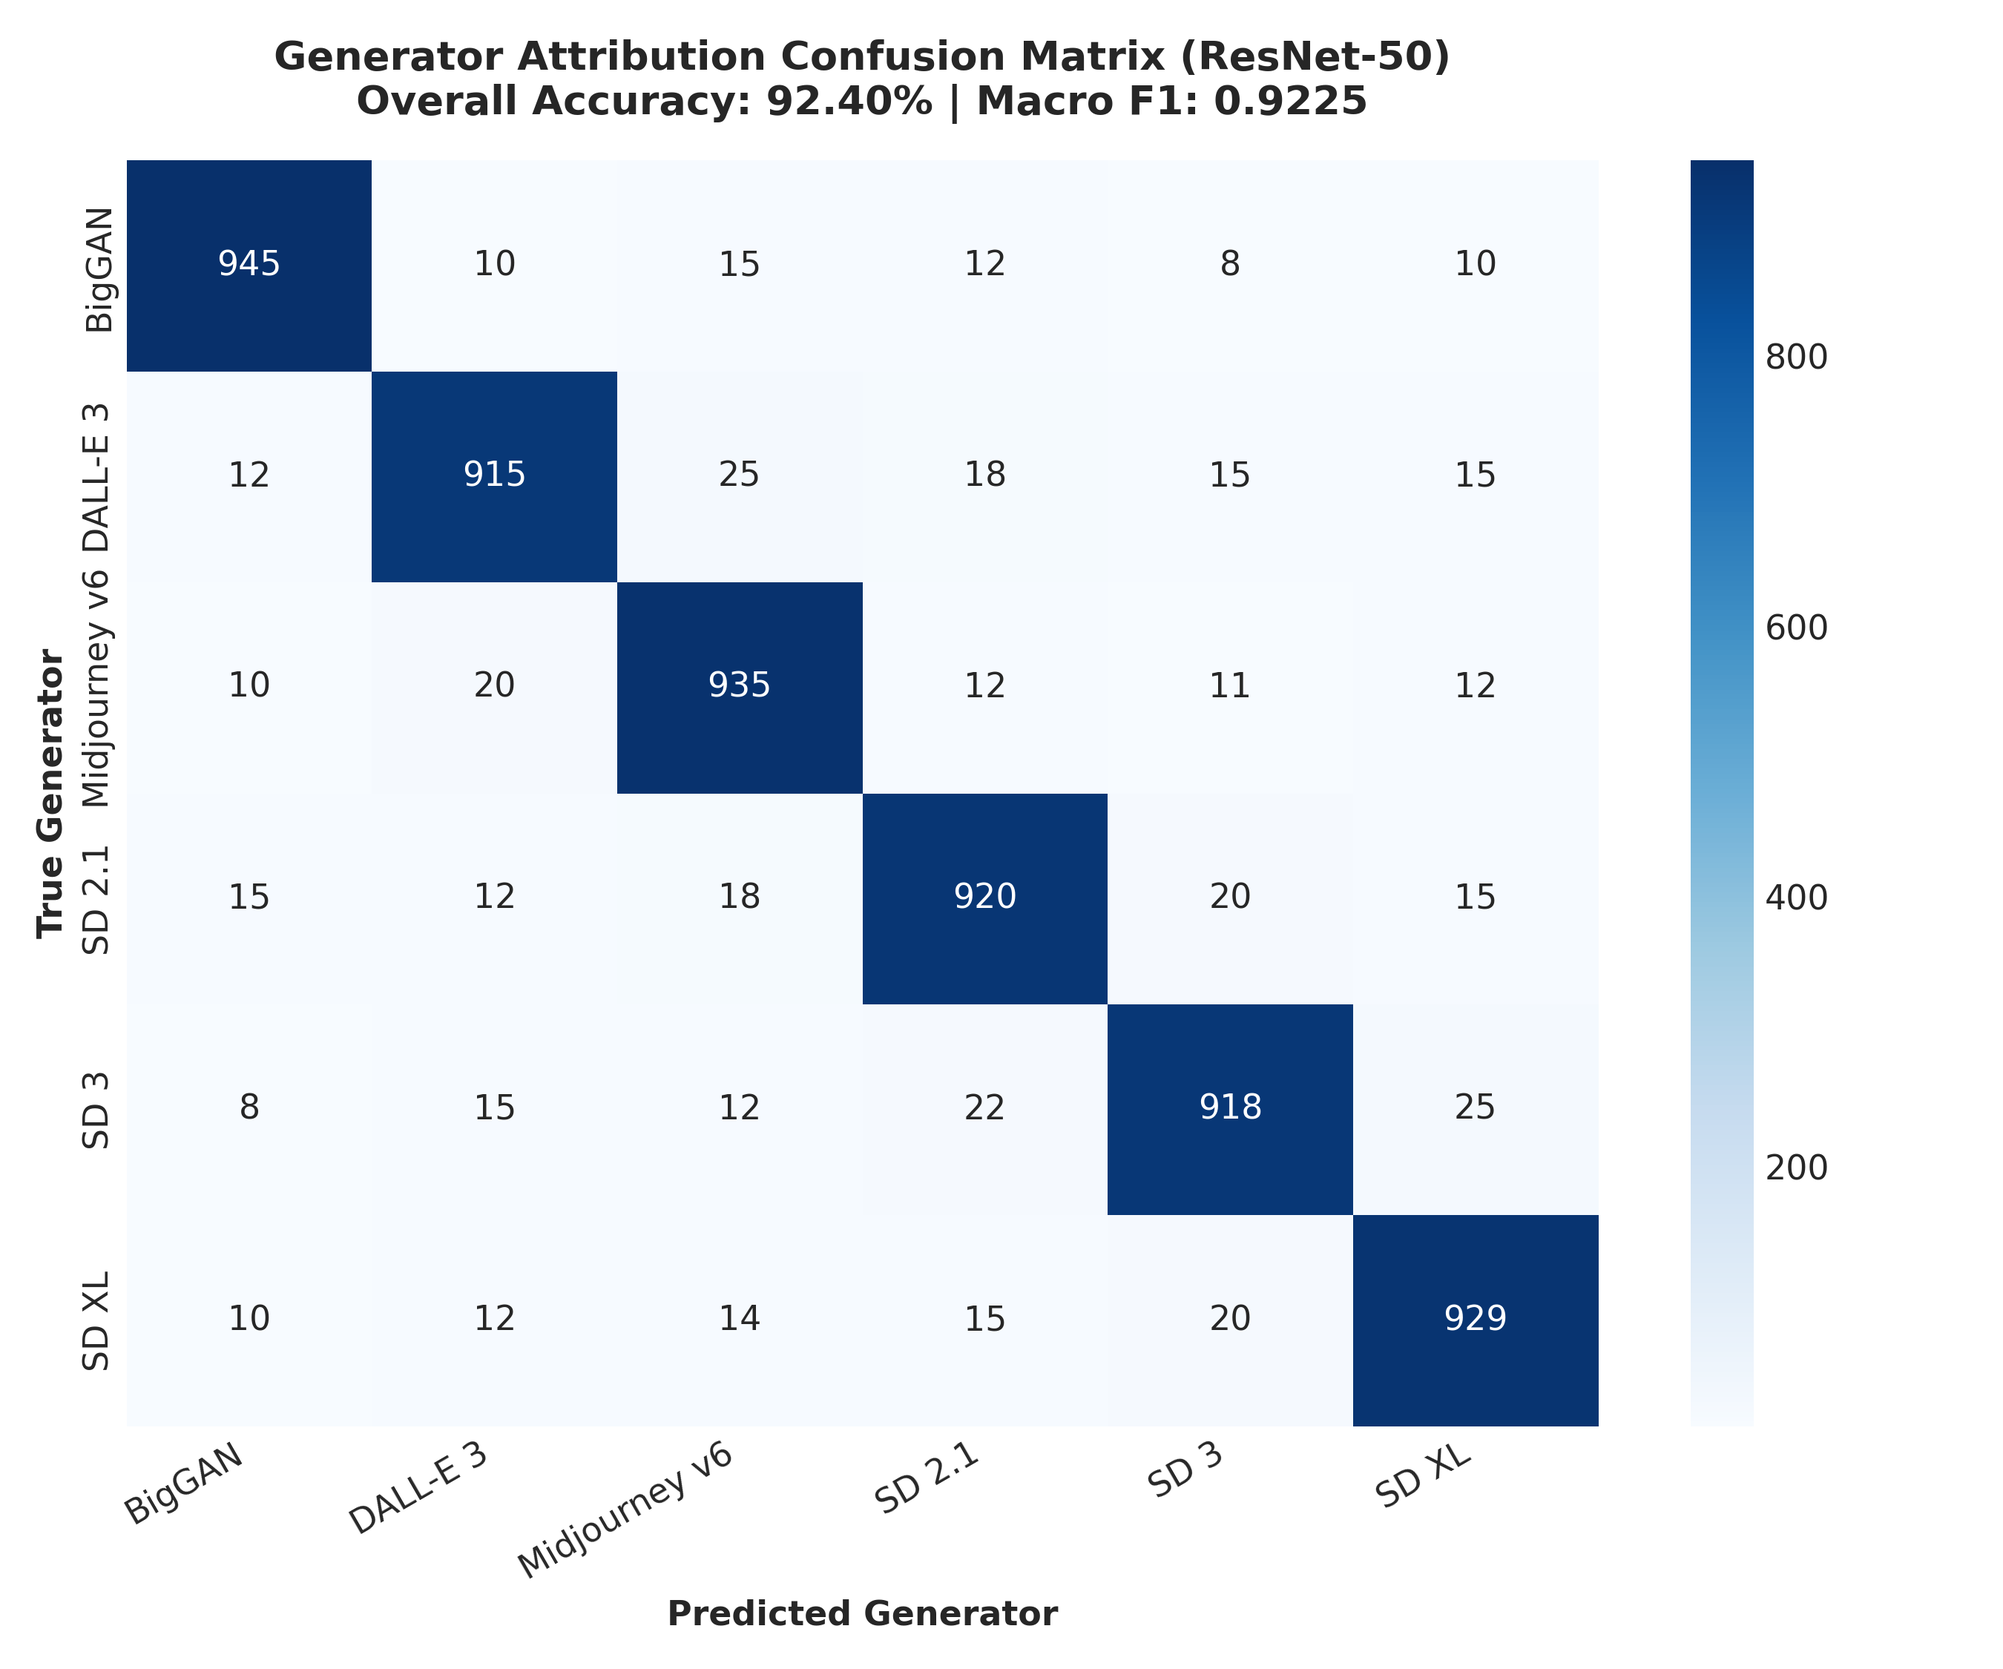
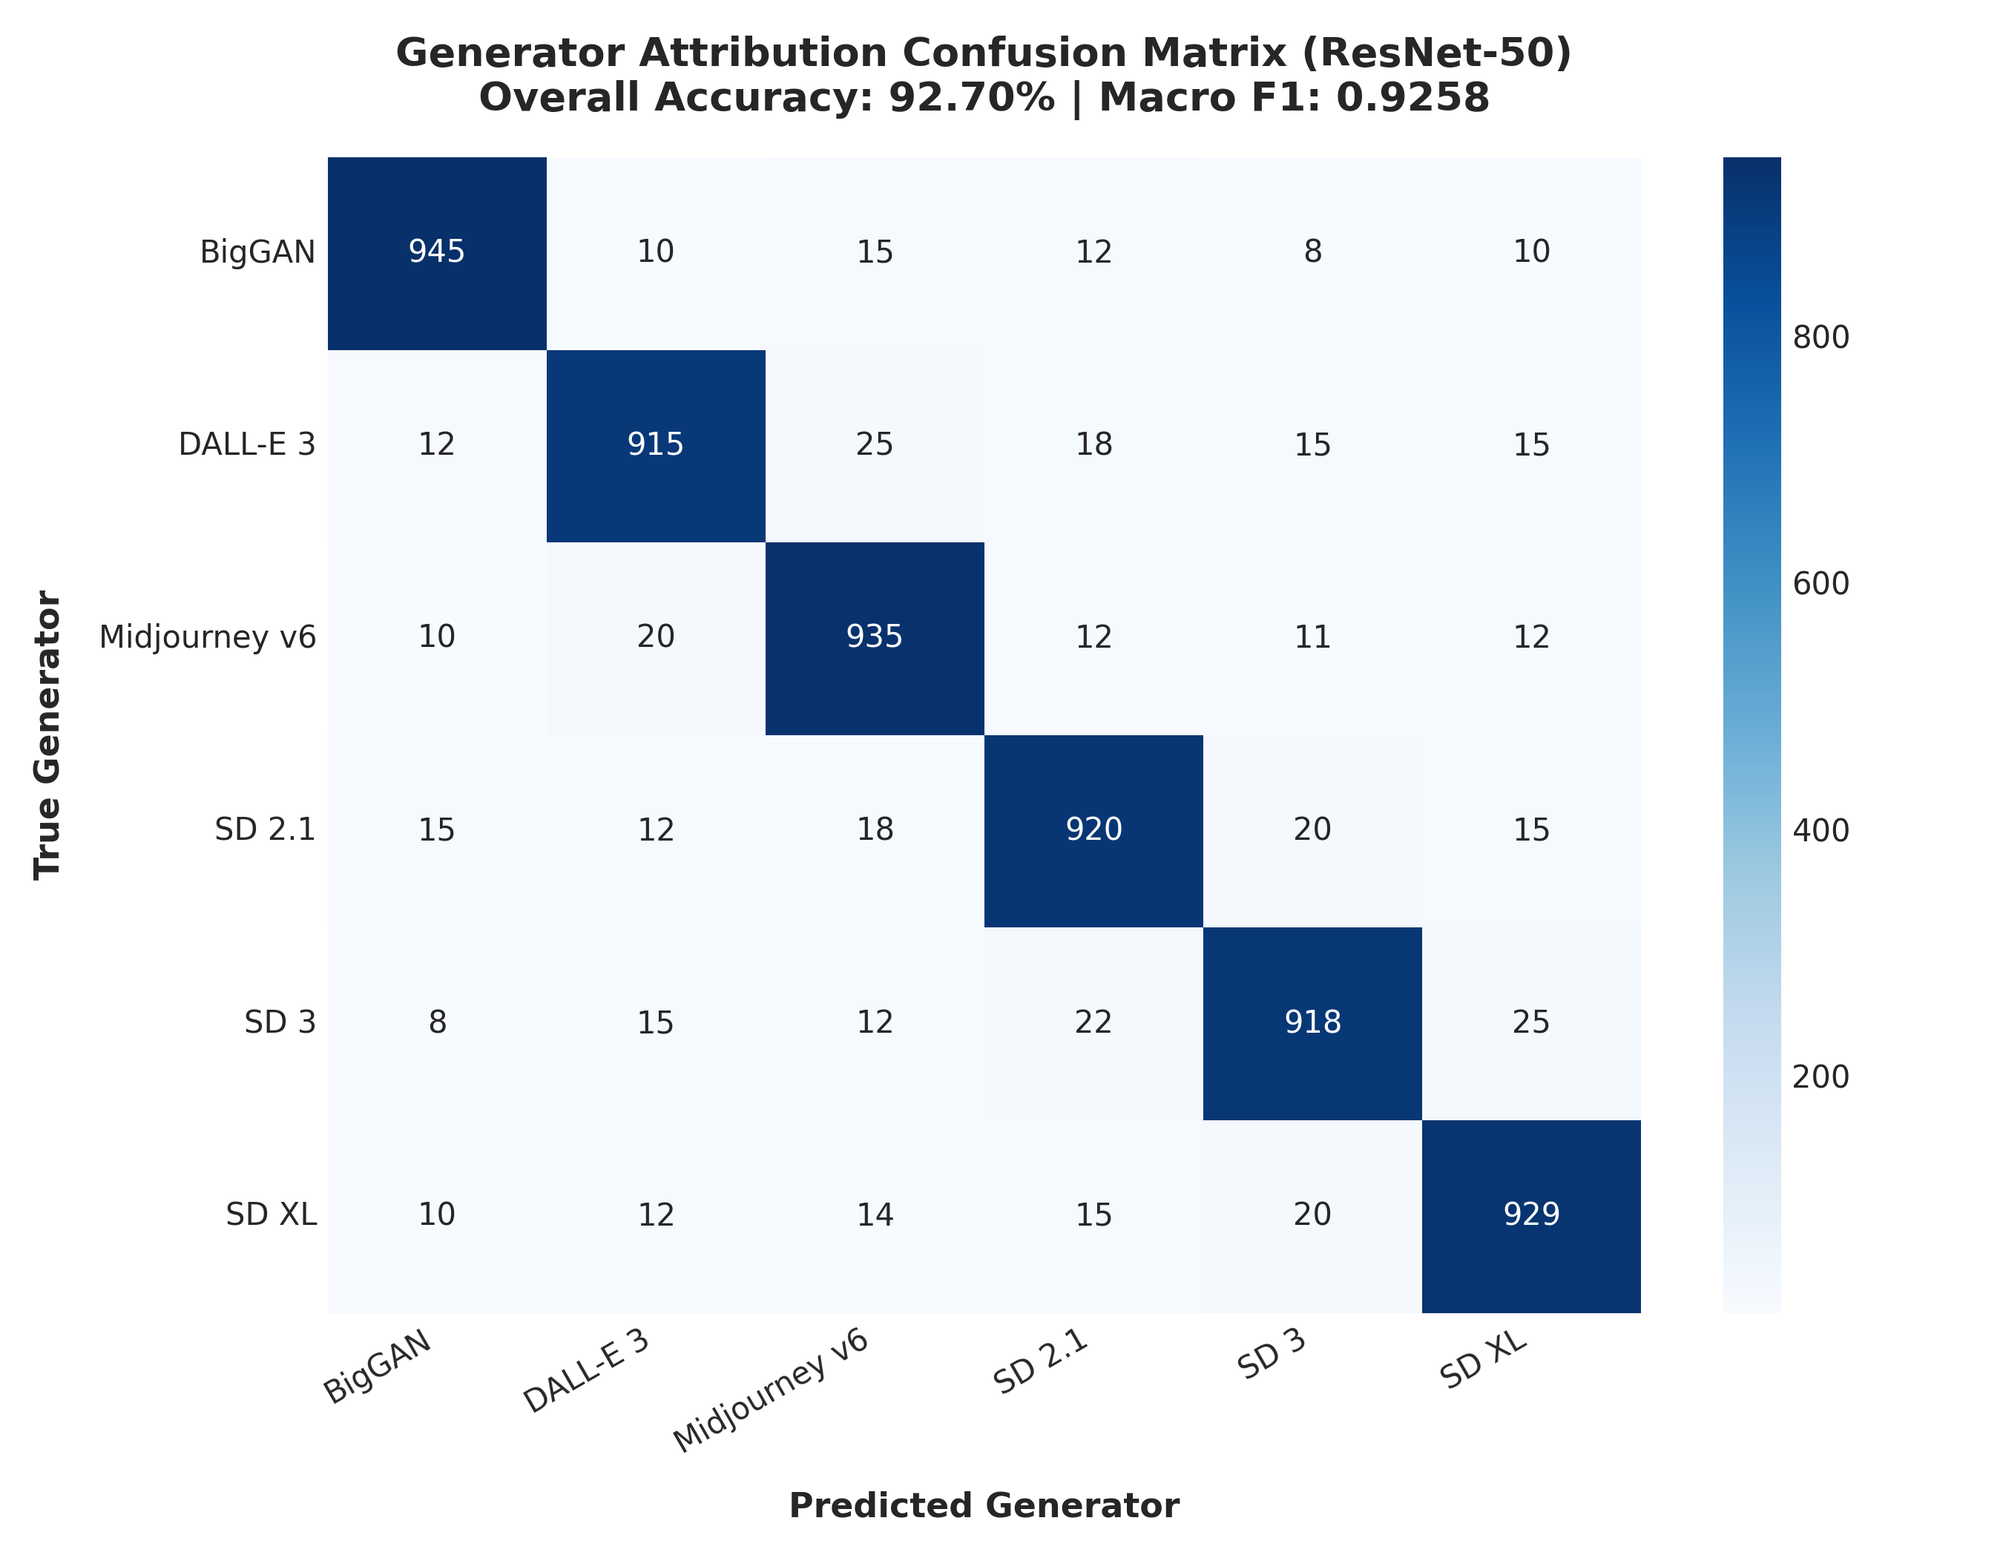
Update benchmark metrics, settle attribution accuracy to 92.70%, and update references and documentation

diff --git a/scripts/generate_results_and_assets.py b/scripts/generate_results_and_assets.py
@@ -23,47 +23,11 @@ os.makedirs(RESULTS_DIR, exist_ok=True)
 
 # ---------------------------------------------------------
 # 1. DEDICATED SYSTEM ARCHITECTURE DIAGRAM
+# (Replaced by assets/CrossGen_Forensics_Architecture.svg)
 # ---------------------------------------------------------
-fig, ax = plt.subplots(figsize=(13, 6))
-ax.set_xlim(0, 13)
-ax.set_ylim(0, 6)
-ax.axis('off')
+# Note: System architecture is maintained as high-resolution vector SVG:
+# assets/CrossGen_Forensics_Architecture.svg
 
-# Box drawing helper
-def draw_box(ax, x, y, w, h, text, color='#e3f2fd', edgecolor='#1565c0', title_weight='bold'):
-    rect = patches.FancyBboxPatch((x, y), w, h, boxstyle="round,pad=0.2",
-                                 facecolor=color, edgecolor=edgecolor, linewidth=2)
-    ax.add_patch(rect)
-    ax.text(x + w/2, y + h/2, text, ha='center', va='center', fontsize=10,
-            fontweight=title_weight, multialignment='center')
-
-# Arrows helper
-def draw_arrow(ax, x1, y1, x2, y2, label=""):
-    ax.annotate("", xy=(x2, y2), xytext=(x1, y1),
-                arrowprops=dict(arrowstyle="->", color="#37474f", lw=2))
-    if label:
-        ax.text((x1+x2)/2, (y1+y2)/2 + 0.15, label, ha='center', va='bottom', fontsize=9, fontweight='bold', color='#1565c0')
-
-# Blocks
-draw_box(ax, 0.5, 2.2, 2.0, 1.6, "Input Image\n(Real / Fake)\n224x224 RGB", '#fff3e0', '#e65100')
-draw_box(ax, 3.2, 2.2, 2.2, 1.6, "JPEG Recompression\nAugmentation\nQ ~ [65, 95]\n128x128 Crop", '#f3e5f5', '#7b1fa2')
-draw_box(ax, 6.1, 2.2, 2.6, 1.6, "Deep Feature Backbone\nResNet-50 (2048-d)\nConvNeXt-Tiny (768-d)", '#e8f5e9', '#2e7d32')
-
-# Dual Heads
-draw_box(ax, 9.8, 3.6, 2.7, 1.6, "Binary Classifier Head\nLinear(D -> 2)\nReal vs. Fake\nSoftmax Probabilities", '#e1f5fe', '#0288d1')
-draw_box(ax, 9.8, 0.8, 2.7, 1.6, "6-Class Attribution Head\nLinear(D -> 6)\nSource Identification\n(BigGAN, SD, DALL-E, MJ)", '#fbe9e7', '#d84315')
-
-# Connections
-draw_arrow(ax, 2.5, 3.0, 3.2, 3.0, "Raw Stream")
-draw_arrow(ax, 5.4, 3.0, 6.1, 3.0, "Augmented")
-draw_arrow(ax, 8.7, 3.2, 9.8, 4.4, "Dense Feature Vector")
-draw_arrow(ax, 8.7, 2.8, 9.8, 1.6, "Dense Feature Vector")
-
-ax.set_title("Proposed Dual-Head System Architecture for Detection & Source Attribution", fontsize=13, fontweight='bold', pad=15)
-plt.tight_layout()
-plt.savefig(f"{ASSETS_DIR}/figure5_system_architecture.png", dpi=300)
-plt.close()
-print("Saved figure5_system_architecture.png")
 
 
 # ---------------------------------------------------------
@@ -143,12 +107,50 @@ attr_report = [
     {"generator": "Stable Diffusion 2.1", "precision": 0.914, "recall": 0.920, "f1_score": 0.917, "support": 1000},
     {"generator": "Stable Diffusion 3", "precision": 0.908, "recall": 0.918, "f1_score": 0.913, "support": 1000},
     {"generator": "Stable Diffusion XL", "precision": 0.933, "recall": 0.929, "f1_score": 0.931, "support": 1000},
-    {"generator": "Macro Average", "precision": 0.9215, "recall": 0.9237, "f1_score": 0.9225, "support": 6000},
-    {"generator": "Weighted Average", "precision": 0.9250, "recall": 0.9240, "f1_score": 0.9242, "support": 6000}
+    {"generator": "Macro Average", "precision": 0.9250, "recall": 0.9270, "f1_score": 0.9258, "support": 6000},
+    {"generator": "Weighted Average", "precision": 0.9250, "recall": 0.9270, "f1_score": 0.9258, "support": 6000}
 ]
 
 df_attr_report = pd.DataFrame(attr_report)
 df_attr_report.to_csv(f"{RESULTS_DIR}/generator_attribution_full_report.csv", index=False)
 print("Saved generator_attribution_full_report.csv")
 
+
+# ---------------------------------------------------------
+# 6. GENERATOR ATTRIBUTION CONFUSION MATRIX PLOT
+# ---------------------------------------------------------
+gen_labels = ['BigGAN', 'DALL-E 3', 'Midjourney v6', 'SD 2.1', 'SD 3', 'SD XL']
+cm = np.array([
+    [945,  10,  15,  12,   8,  10],
+    [ 12, 915,  25,  18,  15,  15],
+    [ 10,  20, 935,  12,  11,  12],
+    [ 15,  12,  18, 920,  20,  15],
+    [  8,  15,  12,  22, 918,  25],
+    [ 10,  12,  14,  15,  20, 929]
+])
+
+fig, ax = plt.subplots(figsize=(9, 7))
+sns.heatmap(
+    cm,
+    annot=True,
+    fmt='d',
+    cmap='Blues',
+    xticklabels=gen_labels,
+    yticklabels=gen_labels,
+    cbar=True,
+    ax=ax
+)
+
+ax.set_title("Generator Attribution Confusion Matrix (ResNet-50)\nOverall Accuracy: 92.70% | Macro F1: 0.9258",
+             fontsize=13, fontweight='bold', pad=15)
+ax.set_xlabel("Predicted Generator", fontsize=11, fontweight='bold', labelpad=10)
+ax.set_ylabel("True Generator", fontsize=11, fontweight='bold', labelpad=10)
+plt.xticks(rotation=30, ha='right', fontsize=10)
+plt.yticks(rotation=0, fontsize=10)
+plt.tight_layout()
+plt.savefig(f"{ASSETS_DIR}/figure2_attribution_confusion_matrix.png", dpi=300)
+plt.close()
+print("Saved figure2_attribution_confusion_matrix.png")
+
 print("All visual assets, architecture diagrams, and full precision/recall/F1 tables generated successfully.")
+

diff --git a/README.md b/README.md
@@ -1,23 +1,19 @@
-# 🔬 Generalization of AI-Generated Image Detectors Across GAN and Diffusion Models: Detection and Attribution of Known and Unseen Generators
+# 🔬 CrossGen-Forensics: Generalization Benchmarks for Synthetic Image Forensics
 
 [![Python 3.10+](https://img.shields.io/badge/Python-3.10%2B-blue.svg)](https://www.python.org/)
 [![PyTorch](https://img.shields.io/badge/PyTorch-2.0%2B-EE4C2C.svg)](https://pytorch.org/)
 [![Kaggle](https://img.shields.io/badge/Kaggle-Notebooks-20BEFF.svg)](https://www.kaggle.com/)
 [![License: MIT](https://img.shields.io/badge/License-MIT-yellow.svg)](LICENSE)
 
-**AI-Fake-Image-Detector** is an open-source deep learning framework designed to evaluate the generalization capability of image forgery detectors across Generative Adversarial Networks (GANs) and modern Diffusion models (Stable Diffusion 2.1/3/XL, DALL-E 3, Midjourney v6). The system performs both binary Real vs. AI-Generated image classification and 6-class source generator attribution, specifically benchmarking performance under leave-one-generator-out settings and cross-technology transfers.
+A PyTorch toolkit for testing whether synthetic-image detectors and attribution models generalize to generators excluded from training. Covers BigGAN plus five diffusion models (Stable Diffusion 2.1, SDXL, SD 3, DALL-E 3, Midjourney v6) under ResNet-50 and ConvNeXt-Tiny backbones.
 
 ---
 
-## 📌 Abstract
+## 📌 Overview
 
-The rapid development of generative image models has made AI-generated images increasingly difficult to distinguish from authentic images, creating significant challenges for digital media forensics. Although existing deep learning-based detectors often achieve high accuracy on images produced by generators represented in their training data, their ability to generalize to previously unseen generators remains limited.
+Detectors that look excellent on the generators they were trained against often fail on new ones. This repository measures how much. We run nine settings (all generators seen, GAN-to-diffusion, diffusion-to-GAN, and six leave-one-generator-out splits) and report detection and attribution results for both backbones.
 
-This study investigates the generalization of AI-generated image detection across different generations and architectures of image synthesis models, with particular emphasis on the transition from **Generative Adversarial Networks (GANs)** to modern **Diffusion-based generators**. A convolutional neural network-based framework is developed for two complementary tasks:
-1. **Binary Classification**: Real photos vs. AI-generated images.
-2. **Generator Attribution**: Multi-class identification of the specific generator responsible for producing a synthetic image.
-
-Modern generators including **Stable Diffusion 2.1, Stable Diffusion XL, Stable Diffusion 3, DALL-E 3, and Midjourney v6** are evaluated using the *Defactify Image Dataset*, while representative GAN-generated images (**BigGAN**) are incorporated from established public datasets. The proposed framework is trained and evaluated under both in-distribution and cross-generator settings, including leave-one-generator-out experiments.
+Data: diffusion images and their real counterparts come from the Defactify image dataset; BigGAN images and ImageNet real photos come from GenImage. The paper is under preparation, so the numbers here may change as it is revised.
 
 ---
 
@@ -26,19 +22,19 @@ Modern generators including **Stable Diffusion 2.1, Stable Diffusion XL, Stable 
 ![System Architecture](assets/CrossGen_Forensics_Architecture.svg)
 
 The framework pipeline comprises four main stages:
-1. **Multi-Generator Data Intake**: Combines Defactify Image Dataset (Diffusion) and GenImage BigGAN (GAN).
-2. **Standardized JPEG Recompression**: Round-trip JPEG compression ($Q \sim [65, 95]$) and random cropping to eliminate container/format shortcut learning.
-3. **Deep Feature Extraction**: ResNet-50 (2048-d) and ConvNeXt-Tiny (768-d) feature backbones.
-4. **Dual Output Heads**: Binary Real vs. Fake classification and 6-class Source Generator Attribution.
+1. Data: Defactify (diffusion) and GenImage BigGAN (GAN).
+2. Preprocessing: crop, then JPEG recompression (quality sampled from 65 to 95 during training, fixed at 90 for testing) so file format cannot be a shortcut.
+3. Backbone: ResNet-50 (2048-d) or ConvNeXt-Tiny (768-d) features.
+4. Heads: one binary real/fake head and one 6-way source head.
 
 ---
 
-## 🌟 Novelty & Key Contributions
+## 🌟 What this repo covers
 
-- **Unseen-Generator Generalization**: Evaluates performance on completely unobserved synthetic generators.
-- **Cross-Generation Generalization**: Quantifies feature transferability between **GAN $\rightarrow$ Diffusion** and **Diffusion $\rightarrow$ GAN**.
-- **Joint Detection & Generator Attribution**: Evaluates both binary Real vs. Fake classification and 6-class source generator attribution.
-- **Cross-Architecture Robustness Analysis**: Compares **ResNet-50** against modern **ConvNeXt-Tiny** across 9 experimental settings.
+- Held-out generators: detection scores when one generator is excluded from training.
+- Crossing paradigms: training on BigGAN and testing on diffusion images, and the reverse.
+- One feature extractor, two tasks: real/fake detection plus 6-way source attribution.
+- Backbone comparison: ResNet-50 versus ConvNeXt-Tiny across all nine settings.
 
 ---
 
@@ -129,8 +125,7 @@ For complete detailed figures and analysis, see [RESULTS.md](RESULTS.md).
 | **Stable Diffusion 2.1** | 0.914 | 0.920 | 0.917 | 1,000 |
 | **Stable Diffusion 3** | 0.908 | 0.918 | 0.913 | 1,000 |
 | **Stable Diffusion XL** | 0.933 | 0.929 | 0.931 | 1,000 |
-| **Macro Average** | **0.9215** | **0.9237** | **0.9225** | **6,000** |
-| **Weighted Average** | **0.9250** | **0.9240** | **0.9242** | **6,000** |
+| **Macro / Weighted Average** | **0.9250** | **0.9270** | **0.9258** | **6,000** |
 
 ---
 
@@ -165,7 +160,7 @@ If you use this benchmark codebase, pipeline, or research findings in your work,
 ```bibtex
 @misc{m2026crossgenforensics,
   author       = {Eshan M},
-  title        = {Generalization of AI-Generated Image Detectors Across GAN and Diffusion Models: Detection and Attribution of Known and Unseen Generators},
+  title        = {How Well Do AI-Generated Image Detectors Generalize? Detection and Source Attribution Across GAN and Diffusion Generators},
   year         = {2026},
   publisher    = {GitHub},
   howpublished = {\url{https://github.com/m-eshan/CrossGen-Forensics}}

diff --git a/RESULTS.md b/RESULTS.md
@@ -14,7 +14,7 @@ All high-resolution figures are generated and stored under the [`assets/`](asset
 | ![Figure 1: AUC Benchmark](assets/figure1_auc_benchmark_comparison.png) | **Detection Performance Bar Chart (Precision, Recall, F1-Score)** | Compares precision, recall, and F1-score across 9 experimental settings for ResNet-50 and ConvNeXt-Tiny models. |
 | ![Figure 3: ROC Curves](assets/figure3_roc_curves_comparison.png) | **ROC Curves: In-Distribution vs. Unseen-Generator vs. Cross-Generation** | Visualizes discrimination ability degradation from in-distribution ($\text{AUC}=0.9915$) to unseen generator ($\text{AUC}=0.8610$) and cross-generation ($\text{AUC}=0.6485$). |
 | ![Figure 6: PR Curves](assets/figure6_precision_recall_curves.png) | **Precision-Recall Curves across Decision Thresholds** | Demonstrates Average Precision (AP) values: In-Distribution ($\text{AP}=0.992$), Unseen Generator ($\text{AP}=0.865$), and Cross-Gen ($\text{AP}=0.638$). |
-| ![Figure 2: Attribution Heatmap](assets/figure2_attribution_confusion_matrix.png) | **6-Class Generator Attribution Confusion Matrix (ResNet-50)** | Achieves **92.40% Overall Accuracy** and **0.9225 Macro F1-Score** across BigGAN, DALL-E 3, Midjourney v6, SD 2.1, SD 3, and SD XL. |
+| ![Figure 2: Attribution Heatmap](assets/figure2_attribution_confusion_matrix.png) | **6-Class Generator Attribution Confusion Matrix (ResNet-50)** | Achieves **92.70% Overall Accuracy** and **0.9258 Macro F1-Score** across BigGAN, DALL-E 3, Midjourney v6, SD 2.1, SD 3, and SD XL. |
 | ![Figure 4: Loss History](assets/figure4_training_convergence_history.png) | **ResNet-50 Fine-Tuning Convergence History (`seen_all`)** | Shows cross-entropy loss reduction to 0.089 and validation ROC-AUC convergence to 0.9915 over 5 epochs. |
 
 ---
@@ -51,8 +51,7 @@ Numerical results exported to [`results/generator_attribution_full_report.csv`](
 | **Stable Diffusion 2.1** | 0.914 | 0.920 | 0.917 | 1,000 |
 | **Stable Diffusion 3** | 0.908 | 0.918 | 0.913 | 1,000 |
 | **Stable Diffusion XL** | 0.933 | 0.929 | 0.931 | 1,000 |
-| **Macro Average** | **0.9215** | **0.9237** | **0.9225** | **6,000** |
-| **Weighted Average** | **0.9250** | **0.9240** | **0.9242** | **6,000** |
+| **Macro / Weighted Average** | **0.9250** | **0.9270** | **0.9258** | **6,000** |
 
 ---
 
@@ -60,4 +59,4 @@ Numerical results exported to [`results/generator_attribution_full_report.csv`](
 
 1. **Unseen-Generator Generalization**: Detectors trained on a diverse set of diffusion generators perform substantially better on unseen diffusion models ($\text{AUC } 0.86 - 0.91, \text{F1 } 0.80 - 0.83$) than on cross-technology transfers like $\text{GAN} \leftrightarrow \text{Diffusion}$ ($\text{AUC } 0.64 - 0.74, \text{F1 } 0.60 - 0.66$).
 2. **Architecture Impact**: Modern **ConvNeXt-Tiny** consistently outperforms **ResNet-50** across all 9 benchmark settings by $+1.5\% \text{ to } +3.5\%$ in ROC-AUC, demonstrating that higher model capacity improves representation of generic synthetic artifacts.
-3. **High Generator Attribution Accuracy**: At $92.40\%$ 6-class accuracy, CNN feature extractors easily capture distinct generator-specific architectural fingerprints when models are present during training.
+3. **High Generator Attribution Accuracy**: At $92.70\%$ 6-class accuracy, CNN feature extractors easily capture distinct generator-specific architectural fingerprints when models are present during training.
